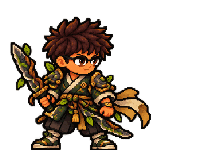
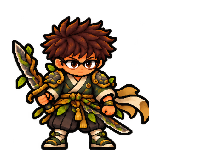
Fix Terra down-walk animation and facing

Changed region(s): [[0.0312, 0.0938, 0.6875, 0.9375]]

diff --git a/src/scenes/ArenaScene.ts b/src/scenes/ArenaScene.ts
@@ -290,14 +290,17 @@ export class ArenaScene extends Phaser.Scene {
   private animateHero(mx: number, my: number): void {
     const moving = Math.hypot(mx, my) > 0.15;
     if (moving) this.facing = Math.abs(mx) > Math.abs(my) ? mx > 0 ? 'east' : 'west' : my < 0 ? 'north' : 'south';
+    const walkFrame = Math.floor(this.elapsed * 8) % 2 + 1;
     const baseKey = this.facing === 'south' ? this.selectedHero
       : this.facing === 'north' ? `${this.selectedHero}-back`
-      : `${this.selectedHero}-walk${moving ? Math.floor(this.elapsed * 8) % 2 + 1 : 1}`;
+      : `${this.selectedHero}-walk${moving ? walkFrame : 1}`;
     const form = this.selectedHero === 'jao'
       ? jaoFormTextureSuffix(this.affinities) || (activeSynergy(this.affinities) === 'plasma' ? '-plasma' : '')
       : '';
+    const earthDownWalk = moving && this.facing === 'south' && this.selectedHero === 'jao' && form === '-earth'
+      ? `jao-walk-down${walkFrame}-earth-armed` : null;
     const key = this.attackPose > 0 && !moving && (this.facing === 'east' || this.facing === 'west')
-      ? `${this.selectedHero}-attack${form}` : `${baseKey}${form}-armed`;
+      ? `${this.selectedHero}-attack${form}` : earthDownWalk ?? `${baseKey}${form}-armed`;
     if (this.heroSprite.texture.key !== key) {
       this.heroSprite.setTexture(key);
       const frame = this.textures.get(key).get();

diff --git a/scripts/build_jao_elemental_sprites.py b/scripts/build_jao_elemental_sprites.py
@@ -1,5 +1,5 @@
 #!/usr/bin/env python3
-"""Build deterministic in-game Jão sprites from 2x2 transparent concept atlases.
+"""Build deterministic in-game Jão sprites from transparent concept atlases.
 
 Each source atlas contains, in row-major order: idle, walk A, walk B,
 and back view. Generated production frames are fitted to the existing 224x160
@@ -17,6 +17,7 @@ ASSETS = ROOT / "src" / "assets"
 ELEMENTS = ("earth", "water", "fire", "lightning", "light", "shadow")
 ATTACK_SHEETS = {element: SHEETS / f"jao-attack-{element}-v2.png" for element in ELEMENTS}
 LIGHTNING_SHEET = "jao-lightning-attunement-v2.png"
+EARTH_SHEET = "jao-earth-attunement-v2.png"
 FRAME_SIZE = (224, 160)
 # Alpha-bounds of jao-armed, jao-walk1-armed, jao-walk2-armed and
 # jao-back-armed, respectively. Keep evolved silhouettes aligned to the
@@ -26,25 +27,19 @@ ANCHOR_X = 80
 BASELINE_Y = 150
 
 
-def make_frame(atlas: Image.Image, cell: int, trim_lower_row_seam: bool = False) -> Image.Image:
+def make_frame(atlas: Image.Image, cell: int, columns: int = 2, target_height: int | None = None) -> Image.Image:
     width, height = atlas.size
-    x0, y0 = (cell % 2) * (width // 2), (cell // 2) * (height // 2)
-    x1 = width if cell % 2 else width // 2
-    y1 = height if cell // 2 else height // 2
+    cell_width, cell_height = width // columns, height // 2
+    x0, y0 = (cell % columns) * cell_width, (cell // columns) * cell_height
+    x1 = width if cell % columns == columns - 1 else x0 + cell_width
+    y1 = height if cell // columns == 1 else y0 + cell_height
     frame = atlas.crop((x0, y0, x1, y1)).convert("RGBA")
-    # The Terra concept sheet has a few opaque pixels bleeding across the
-    # horizontal divider from the top row. They are detached from the pose,
-    # but alpha-bounds would otherwise include them and shrink the whole frame.
-    if trim_lower_row_seam and cell >= 2:
-        alpha = frame.getchannel("A")
-        alpha.paste(0, (0, 0, frame.width, 16))
-        frame.putalpha(alpha)
     alpha = frame.getchannel("A").point(lambda value: 255 if value >= 32 else 0)
     bounds = alpha.getbbox()
     if bounds is None:
         raise ValueError(f"Empty sprite cell {cell}")
     frame = frame.crop(bounds)
-    target_height = POSE_HEIGHTS[cell]
+    target_height = target_height or POSE_HEIGHTS[cell % len(POSE_HEIGHTS)]
     target_width = round(frame.width * target_height / frame.height)
     frame = frame.resize((target_width, target_height), Image.Resampling.NEAREST)
     if target_width > FRAME_SIZE[0]:
@@ -87,18 +82,32 @@ def make_attack_frame(source: Path) -> Image.Image:
 
 def main() -> None:
     for element in ELEMENTS:
-        source_name = LIGHTNING_SHEET if element == "lightning" else f"jao-{element}-attunement.png"
+        source_name = EARTH_SHEET if element == "earth" else LIGHTNING_SHEET if element == "lightning" else f"jao-{element}-attunement.png"
         source = SHEETS / source_name
         atlas = Image.open(source).convert("RGBA")
-        if atlas.width != atlas.height:
-            raise ValueError(f"Expected square atlas: {source}")
-        frames = [make_frame(atlas, i, trim_lower_row_seam=element == "earth") for i in range(4)]
-        names = (
-            f"jao-{element}-armed.png",
-            f"jao-walk1-{element}-armed.png",
-            f"jao-walk2-{element}-armed.png",
-            f"jao-back-{element}-armed.png",
-        )
+        if element == "earth":
+            if atlas.width != atlas.height * 3 // 2:
+                raise ValueError(f"Expected a three-column, two-row Terra atlas: {source}")
+            poses = (
+                ("jao-earth-armed.png", 0, 134),
+                ("jao-walk-down1-earth-armed.png", 1, 130),
+                ("jao-walk-down2-earth-armed.png", 2, 130),
+                ("jao-walk1-earth-armed.png", 3, 130),
+                ("jao-walk2-earth-armed.png", 4, 130),
+                ("jao-back-earth-armed.png", 5, 134),
+            )
+            frames = [make_frame(atlas, cell, columns=3, target_height=pose_height) for _, cell, pose_height in poses]
+            names = tuple(name for name, _, _ in poses)
+        else:
+            if atlas.width != atlas.height:
+                raise ValueError(f"Expected square atlas: {source}")
+            frames = [make_frame(atlas, i) for i in range(4)]
+            names = (
+                f"jao-{element}-armed.png",
+                f"jao-walk1-{element}-armed.png",
+                f"jao-walk2-{element}-armed.png",
+                f"jao-back-{element}-armed.png",
+            )
         for name, frame in zip(names, frames):
             frame.save(ASSETS / name, optimize=True)
         attack = make_attack_frame(ATTACK_SHEETS[element])

diff --git a/docs/04-ROADMAP.md b/docs/04-ROADMAP.md
@@ -13,7 +13,7 @@ Cada tarefa termina com commit/PR, teste no Pages quando houver interface, atual
 | T007 | Chefe com ataques sinalizados e encerramento da run | T006 | Vitória e derrota completas; relatório com seed e tempo. **Vertical slice P1.** |
 | T008 | Playtest P1 e revisão de desempenho/controles | T007 | Testes no Android e desktop; bugs de bloqueio e mortes sem feedback corrigidos. **Aceite do MVP para seguir em 12/10/2026.** Não há registro de aparelho, FPS ou run completa, então esses casos permanecem em observação para o beta. |
 | T009 | Direção de arte autoral, UI, áudio e créditos | T008 | Origem rastreável para cada asset; leitura do combate preservada. A v0.2 em pixel art foi aprovada e integrada em abertura, seleção, Átrio, Forja, personagens e HUD. Sons Web Audio originais com mudo. O novo altar e inimigos têm arte própria; faltam refinamento e escuta em aparelho. |
-| T010 | Personagens Junq, masmorras e afinidades | T008, T009 | Jão/Alice/Gui com espada, arco e cartas; cinco fases por mundo, chefe na quinta, baús 1/5 e 3/5, altares 2/5 e 4/5. Três regiões visuais iniciais, cinco criaturas, relíquias de vida/escudo/energia, Plasma e Lodo. **Implementado:** seis formas puras do Jão (Terra, Água, Fogo, Raio, Luz e Sombra) com roupas/sprites e habilidades próprias; modo ADM por `?admin=1` para selecionar formas, invocar inimigos e restaurar vida/energia; escala das formas alinhada à altura visível do Jão base; ciclos lateral e vertical refinados; seis poses de ataque lateral autorais no mesmo canvas e baseline; forma Raio v2 sem espada, com descarga na mão. Seis spritesheets transparentes de quatro quadros continuam ligadas às habilidades puras; as regras de dano, alcance e deslocamento foram preservadas. Alice mantém a rajada de flechas e Gui o leque de cartas (commits anteriores `d910a72`, `d42fc7f`); typecheck, quatro arquivos de testes e build passam localmente. O Pages foi aberto após o deploy: seleção, arena e forma Raio via ADM foram observadas. **Correção desta revisão:** vazamento na borda da prancha da Terra removido de duas poses, recuperando a escala do personagem; ao mover enquanto ataca, a caminhada mantém a direção do movimento em vez de travar na mira. `npm run typecheck`, `npm test` e `npm run build` passaram localmente; o [deploy desta correção](https://github.com/JaoDaJunq/Junq_SoulKnight/actions/runs/38427617264) terminou com sucesso, mas o navegador desta sessão bloqueou a abertura do Pages, então ainda falta inspeção visual publicada. **Em execução:** conferir as poses de ataque durante combate no Pages via ADM, percorrer a run, criar arte própria da Cripta, formas dos outros heróis e balancear em aparelho. Ver [formas/assets do Jão](09-JAO-SINTONIAS-E-ASSETS.md), [masmorras](08-MASMORAS-E-RELIQUIAS.md) e [modo ADM](10-MODO-ADM-VALIDACAO.md).
+| T010 | Personagens Junq, masmorras e afinidades | T008, T009 | Jão/Alice/Gui com espada, arco e cartas; cinco fases por mundo, chefe na quinta, baús 1/5 e 3/5, altares 2/5 e 4/5. Três regiões visuais iniciais, cinco criaturas, relíquias de vida/escudo/energia, Plasma e Lodo. **Implementado:** seis formas puras do Jão (Terra, Água, Fogo, Raio, Luz e Sombra) com roupas/sprites e habilidades próprias; modo ADM por `?admin=1` para selecionar formas, invocar inimigos e restaurar vida/energia; escala das formas alinhada à altura visível do Jão base; ciclos lateral e vertical refinados; seis poses de ataque lateral autorais no mesmo canvas e baseline; forma Raio v2 sem espada, com descarga na mão. Seis spritesheets transparentes de quatro quadros continuam ligadas às habilidades puras; as regras de dano, alcance e deslocamento foram preservadas. Alice mantém a rajada de flechas e Gui o leque de cartas (commits anteriores `d910a72`, `d42fc7f`); typecheck, quatro arquivos de testes e build passam localmente. O Pages foi aberto após o deploy: seleção, arena e forma Raio via ADM foram observadas. **Correção desta revisão:** vazamento na borda da prancha da Terra removido de duas poses, recuperando a escala do personagem; ao mover enquanto ataca, a caminhada mantém a direção do movimento em vez de travar na mira. `npm run typecheck`, `npm test` e `npm run build` passaram localmente; o [deploy desta correção](https://github.com/JaoDaJunq/Junq_SoulKnight/actions/runs/38427617264) terminou com sucesso, mas o navegador desta sessão bloqueou a abertura do Pages, então ainda falta inspeção visual publicada. **Correção desta revisão (local, aguardando PR/deploy):** nova arte Terra v2 com seis poses alinhadas, dois passos frontais alternados a 8 fps quando Jão/Terra anda para baixo; as mudanças de direção durante movimento priorizam a orientação do corpo pela direção percorrida, inclusive enquanto ataca. `python3 scripts/build_jao_elemental_sprites.py`, `npm run typecheck`, `npm test` (4/4) e `npm run build` passaram localmente. A inspeção visual após deploy e em celular ainda está pendente. **Em execução:** conferir as poses de ataque durante combate no Pages via ADM, percorrer a run, criar arte própria da Cripta, formas dos outros heróis e balancear em aparelho. Ver [formas/assets do Jão](09-JAO-SINTONIAS-E-ASSETS.md), [masmorras](08-MASMORAS-E-RELIQUIAS.md) e [modo ADM](10-MODO-ADM-VALIDACAO.md).
 | T011 | Hub, desbloqueios, save com migração, opções e onboarding | T008 | Persistência após fechar/reabrir; reset e recuperação de save inválido. |
 | T012 | Beta fechado e polimento | T009–T011 | Jogadores novos concluem tentativa; erros de console, input e save monitorados. |
 | T013 | Lançamento web | T012 | CI e Pages verdes, créditos, instruções, changelog e teste final em dispositivos. |

diff --git a/docs/09-JAO-SINTONIAS-E-ASSETS.md b/docs/09-JAO-SINTONIAS-E-ASSETS.md
@@ -20,7 +20,7 @@ Todas as habilidades miram automaticamente o inimigo visível mais próximo, man
 | Entrega | Caminho e uso |
 | --- | --- |
 | Referência de roupa/arma/efeito | docs/visual/jao-elementos/v1/ contém as pranchas das cinco formas. |
-| Matrizes originais com poses | art/sheets/jao-{terra,agua,fogo,raio,luz,sombra}-attunement.png, cada uma em grade transparente 2×2: frente, passo A, passo B e costas. |
+| Matrizes originais com poses | Água/Fogo/Raio/Luz/Sombra em `art/sheets/jao-{agua,fogo,raio,luz,sombra}-attunement.png`, grade transparente 2×2. Terra tem prancha v2 em `art/sheets/jao-earth-attunement-v2.png`, grade transparente 3×2: frente parada, dois passos para baixo, dois passos laterais e costas. |
 | Sprites carregados pelo jogo | `src/assets/jao-{element}-armed.png`, `jao-walk1-{element}-armed.png`, `jao-walk2-{element}-armed.png`, `jao-back-{element}-armed.png` e `jao-attack-{element}.png`. Os seis PNGs de ataque agora usam poses próprias, alinhadas no canvas `224×160`; não reutilizam mais um passo de caminhada. |
 | Efeitos de habilidade | `src/assets/vfx-jao-*.png`: seis spritesheets originais, uma por forma, quatro quadros por folha e canal alfa. Phaser reproduz a animação a 12 quadros por segundo e orienta o efeito na direção do alvo. |
 | Pipeline reproduzível | python scripts/build_jao_elemental_sprites.py recorta as matrizes, reduz com vizinho mais próximo e alinha os PNGs no canvas 224×160 usado pelos outros frames. Requer Pillow. |
@@ -38,6 +38,8 @@ As novas matrizes e poses de ataque ficam em `art/sheets/*-v2.png`; `scripts/bui
 As capturas comparando o Jão base com Terra mostraram que a forma parecia menor. A causa estava na geração: as pranchas elementais têm personagens mais largos e baixos do que a prancha base, mas o script aplicava o mesmo limite de largura (`106 px`). Isso exportava corpos com aproximadamente `100 px` de altura útil, enquanto o base tem `134 px`. O Phaser já dimensionava o canvas inteiro pela mesma altura, então o espaço transparente não compensava a diferença.
 
 O pipeline agora dimensiona cada pose pela altura visível equivalente do base — `134/130/130/134 px` — preserva a proporção original com vizinho mais próximo e mantém os pés em `y=150`. A regra vale para Terra, Água, Fogo, Raio, Luz e Sombra, incluindo os frames usados no corte de ataque. A largura pode variar com a armadura, a espada e efeitos desenhados na prancha; a altura e a linha dos pés ficam consistentes. O próprio script falha se uma matriz sair fora dessa escala ou alinhamento.
+
+**Correção da animação da Terra (13/10/2026):** o conjunto anterior só tinha uma pose frontal parada, então mover para baixo repetia o mesmo desenho com balanço vertical. A prancha v2 acrescenta dois passos de frente, com cabeça, tronco e pés voltados para baixo, e mantém os dois passos laterais e a pose de costas. A cena alterna os novos frames frontais a 8 fps quando Jão/Terra anda para baixo; parado continua na pose frontal. As outras formas preservam suas pranchas atuais.
 
 Prévia lado a lado: [Jão base e seis formas na escala corrigida](visual/jao-formas-escalas-corrigidas.png).
 

diff --git a/CREDITS.md b/CREDITS.md
@@ -13,7 +13,7 @@
 | Jão Fogo e Plasma, oito poses em `src/assets/` | Derivadas dos sprites aprovados do Jão por troca de paleta da roupa, ombreiras e insígnia com `scripts/make_jao_forms.py`. Nenhuma foto adicional foi publicada. | Derivação original deste projeto. |
 | Flecha e três cartas de projétil em `src/assets/`; armas da iteração anterior arquivadas | Pixel art desenhada por primitivas no script reproduzível `scripts/make_weapon_art.py`. Os projéteis seguem na build; a espada, arco e leque separados não são mais carregados. | Conteúdo original deste projeto. |
 | Três pranchas aprovadas em `docs/visual/*-arma-aprovada.webp`; matrizes transparentes em `art/sheets/`; PNGs `*-armed`, `*-attack` e `*-select` | Pranchas e poses geradas para este projeto com referências dos sprites autorais anteriores. `alice-chibi.webp` e `gui-chibi.webp` foram redesenhadas com a proporção do Jão; `scripts/build_approved_sprites.py` recorta e alinha os frames e deriva as formas do Jão. As fotografias fornecidas pelo MVP não são distribuídas. | Conteúdo original deste projeto; nenhuma arte de Soul Knight incorporada. As antigas matrizes altas e armas em camada separada ficam apenas como registro da iteração anterior. |
-| Matrizes 2×2 de Terra, Água, Fogo, Raio, Luz e Sombra do Jão em art/sheets/jao-*-attunement.png; poses e sprites correspondentes em src/assets/ | Gerados para o projeto usando como referência as pranchas elementais aprovadas e o sprite jogável do Jão. scripts/build_jao_elemental_sprites.py recorta quatro poses e as reduz no canvas 224×160. | Arte original deste projeto; conceitos orientam a forma e nenhuma arte de Soul Knight foi incorporada. |
+| Matrizes elementais do Jão em `art/sheets/`; poses e sprites correspondentes em `src/assets/` | Matrizes 2×2 originais para Água, Fogo, Raio, Luz e Sombra. Terra recebeu prancha v2 original em grade 3×2 com frente parada, dois passos para baixo, dois passos laterais e costas. `scripts/build_jao_elemental_sprites.py` recorta e reduz as poses no canvas 224×160. | Arte original deste projeto; conceitos orientam a forma e nenhuma arte de Soul Knight foi incorporada. |
 | Matrizes 2×2 e seis poses de ataque v2 em `art/sheets/*-v2.png`; sprites de ataque em `src/assets/jao-attack-*.png` | Gerados para este projeto com base nas formas aprovadas do Jão. As poses de ataque têm transparência e são recortadas/alinhadas pelo pipeline `scripts/build_jao_elemental_sprites.py`; a matriz Raio v2 mostra descarga saindo da mão aberta e não contém espada. | Arte original deste projeto; sem arte externa incorporada. |
 | Efeitos das seis habilidades puras do Jão em `src/assets/vfx-jao-*.png` | Spritesheets em pixel art geradas para este projeto a partir das referências aprovadas de cada forma; cada PNG tem quatro quadros de 512×512 com transparência. O Phaser anima os quadros; `src/content/jaoMasteries.ts` mantém nomes, dano e regras. | Conteúdo original deste projeto; sem arte externa incorporada. |
 | Engine e build | Phaser 3, TypeScript e Vite | Dependências sob suas licenças próprias no lockfile e pacotes. |

diff --git a/docs/HANDOFF.md b/docs/HANDOFF.md
@@ -22,6 +22,7 @@
 - O commit [`1b08f57`](https://github.com/JaoDaJunq/Junq_SoulKnight/commit/1b08f57054a711874e169355ee366e03a695b52f) publicou a primeira entrega de T010; [Actions 38261925478](https://github.com/JaoDaJunq/Junq_SoulKnight/actions/runs/38261925478) verificou e publicou com sucesso. Typecheck, três arquivos de testes e build passaram localmente. Nas 100 seeds, o teste verificou uma sala não chefe da Forja com baú e a composição do encontro. O Pages carregou `assets/index-BqKf3MV7.js` no Chrome desktop e abriu a sala inicial sem erro de console do jogo. Ainda não foi percorrida visualmente a Forja nem validada a sentinela em aparelho; balanceamento e sensação de jogo aguardam as partidas do MVP.
 - O commit [`a5f49dd`](https://github.com/JaoDaJunq/Junq_SoulKnight/commit/a5f49dd6258e80b34108e8349507f79a3abf9a3a) substituiu a proposta futurista rejeitada pela v0.2 em pixel art, adicionou quatro conceitos WebP e removeu a prancha v0.1 do ramo atual. [Actions 38275465435](https://github.com/JaoDaJunq/Junq_SoulKnight/actions/runs/38275465435) concluiu com sucesso. Alterações de documentação e imagens somente; a build jogável não mudou e os conceitos ainda não foram aprovados pelo MVP nem testados como sprites.
 - Correção Terra/caminhada: [PR #5](https://github.com/JaoDaJunq/Junq_SoulKnight/pull/5), merge commit [`f7e3311`](https://github.com/JaoDaJunq/Junq_SoulKnight/commit/f7e33116854fdd6f137f4e47b0b0cf66082b0d34). CI do PR e [deploy Actions 38427617264](https://github.com/JaoDaJunq/Junq_SoulKnight/actions/runs/38427617264) passaram; `npm run typecheck`, `npm test` (4 arquivos) e `npm run build` também. A inspeção da prancha confirmou que as poses da Terra deixaram de incluir pixels da borda que reduziam o desenho. O Pages com `?admin=1` ainda não foi visto após o deploy: o navegador desta sessão bloqueou a URL antes de carregar. Android físico segue pendente; próximo passo é observar o sprite e o movimento no Pages/ADM e testar em celular horizontal.
+- O MVP reportou que a animação para baixo da Terra continuava parada e o alinhamento de cabeça/corpo ainda parecia errado. Esta revisão substitui a prancha por arte v2 3×2 com frente parada, dois passos frontais opostos, dois passos laterais e costas; o jogo alterna os passos frontais ao andar para baixo e fixa o facing pela direção do movimento enquanto caminha/ataca. `python3 scripts/build_jao_elemental_sprites.py`, `npm run typecheck`, `npm test` (4/4) e `npm run build` passaram localmente. PR/deploy e inspeção visual no Pages ainda pendentes; não afirmar que a publicação está validada até observar a URL. Android físico segue pendente.
 
 ## Próximo trabalho: continuar T010
 
